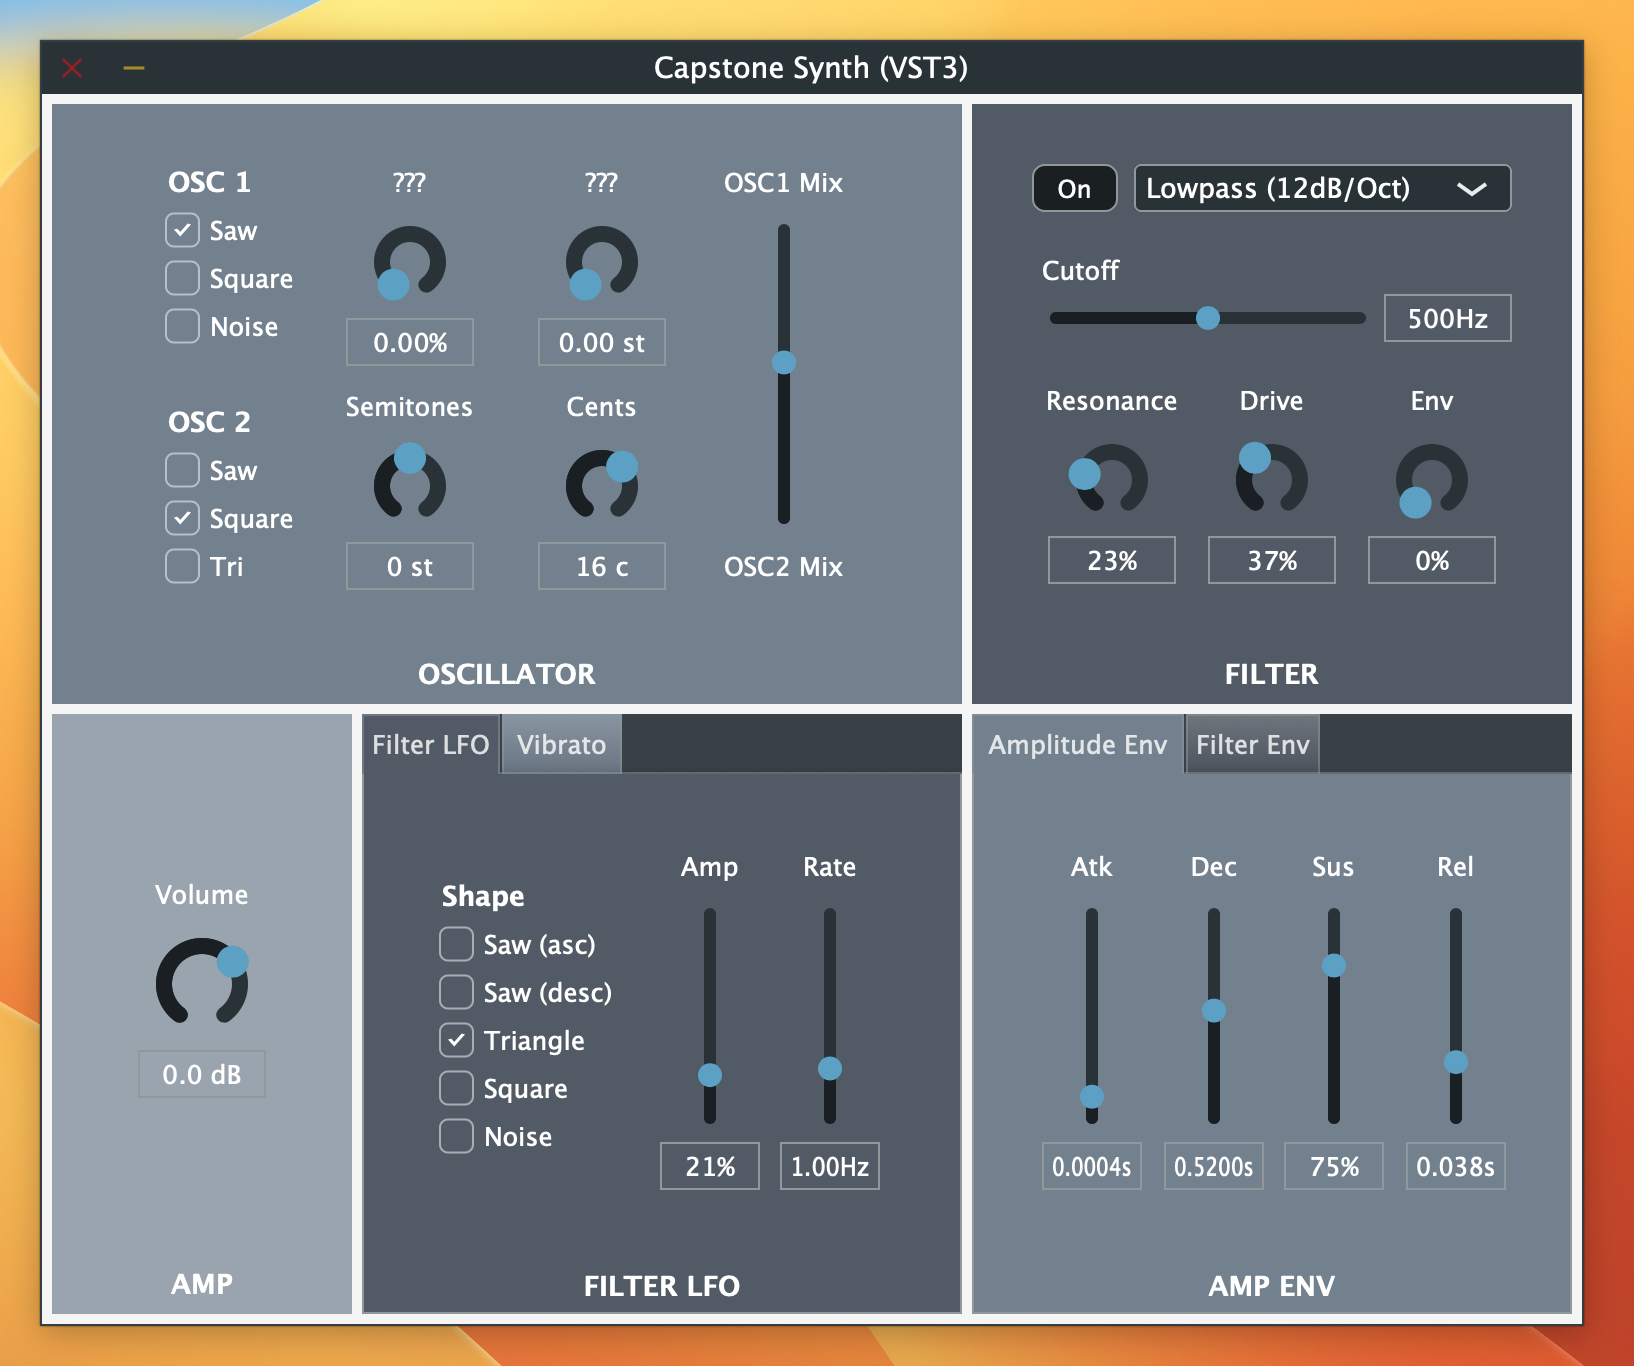
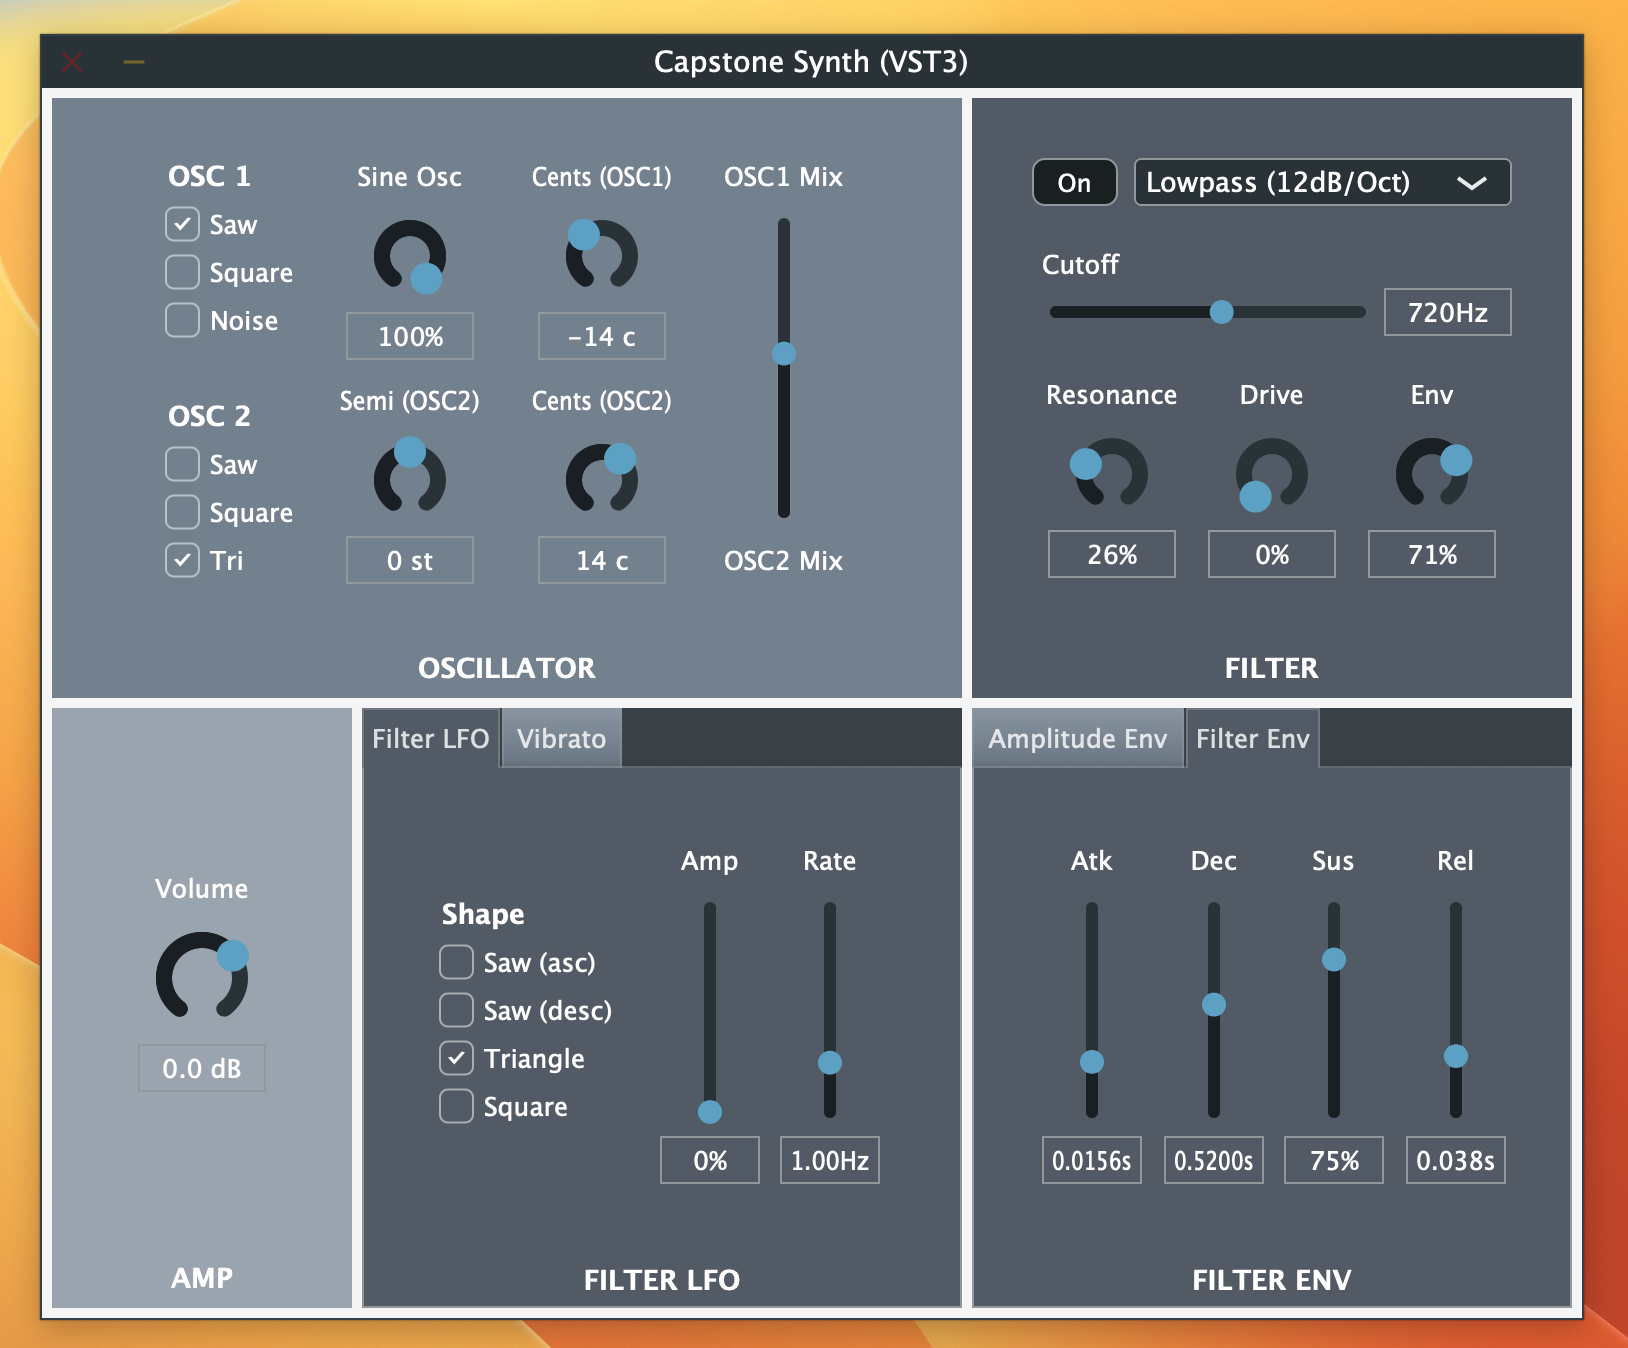
Added sine osc and OSC1 detune

diff --git a/Source/SynthVoice.cpp b/Source/SynthVoice.cpp
@@ -15,11 +15,13 @@ void SynthVoice::prepareToPlay(double sampleRate, int samplesPerBlock, int outpu
     // Required to call `prepare` on each of the juce::dsp processors.
     osc1.prepare(spec);
     osc2.prepare(spec);
+    sineOsc.prepare(spec);
     masterGain.prepare(spec);
     filter.prepare(spec);
     lfo.prepare(spec);
     vibratoLfo.prepare(spec);
     
+    sineOsc.setWaveform(4); // set to sine wave
     adsr.setSampleRate(sampleRate);
     filterAdsr.setSampleRate(sampleRate);
     isPrepared = true;
@@ -29,6 +31,7 @@ void SynthVoice::startNote(int midiNoteNumber, float velocity, juce::Synthesiser
     baseFreqHz = juce::MidiMessage::getMidiNoteInHertz(midiNoteNumber);
     osc1.setLevel(velocity * osc1MixRatio);
     osc2.setLevel(velocity * (1.0 - osc1MixRatio));
+    sineOsc.setLevel(velocity * sineLevel);
     adsr.noteOn();
     filterAdsr.noteOn();
     currentVelocity = velocity;
@@ -59,20 +62,26 @@ void SynthVoice::renderNextBlock(juce::AudioBuffer<float> &outputBuffer, int sta
     // 0. Clear and resize a temp buffer to put our processed signal into
     osc1Buffer.setSize(outputBuffer.getNumChannels(), numSamples, false, false, true);
     osc2Buffer.setSize(outputBuffer.getNumChannels(), numSamples, false, false, true);
+    sineBuffer.setSize(outputBuffer.getNumChannels(), numSamples, false, false, true);
     osc1Buffer.clear();
     osc2Buffer.clear();
+    sineBuffer.clear();
     juce::dsp::AudioBlock<float> osc1AudioBlock {osc1Buffer};
     juce::dsp::AudioBlock<float> osc2AudioBlock {osc2Buffer};
+    juce::dsp::AudioBlock<float> sineAudioBlock {sineBuffer};
     
    // 1. Adjust the oscillators' frequencies with vibrato
     float adjustedBaseFreq = getNewFreqFromVibratoLFO(numSamples);
-    osc1.setFrequency(adjustedBaseFreq, true);
-    osc2.setFrequency(adjustedBaseFreq * pow(2, detuneSemitones / 12.0), true);
+    osc1.setFrequency(adjustedBaseFreq * pow(2, osc1DetuneSemitones / 12.0), true);
+    osc2.setFrequency(adjustedBaseFreq * pow(2, osc2DetuneSemitones / 12.0), true);
+    sineOsc.setFrequency(adjustedBaseFreq, true);
     
     // 1. Get sounds from the oscillators and add them
     osc1.process(juce::dsp::ProcessContextReplacing<float> (osc1AudioBlock));
     osc2.process(juce::dsp::ProcessContextReplacing<float> (osc2AudioBlock));
+    sineOsc.process(juce::dsp::ProcessContextReplacing<float> (sineAudioBlock));
     osc2AudioBlock += osc1AudioBlock;
+    osc2AudioBlock += sineAudioBlock;
     
     // 2. Apply filter (modulated with envelope, filter LFO)
     if (filterIsOn) {
@@ -144,14 +153,17 @@ void SynthVoice::setOscGainRatios(float val) {
     osc2.setLevel(currentVelocity * (1.0 - osc1MixRatio));
 }
 
-void SynthVoice::setOscDetune(int semitones, int cents) {
-    detuneSemitones = semitones + ((float) cents / 100.0);
-//    osc2.setFrequency(baseFreqHz * pow(2, detuneSemitones / 12.0), true);
+void SynthVoice::setOscDetune(int semitones, int cents, int oscNum) {
+    if (oscNum == 1) {
+        osc1DetuneSemitones = ((float) cents / 100.0);
+    } else if (oscNum == 2) {
+        osc2DetuneSemitones = semitones + ((float) cents / 100.0);
+    }
 }
 
 void SynthVoice::setOscSineLevel(float percent) {
-    // TODO: Implement
-    return;
+    sineLevel = percent;
+    sineOsc.setLevel(currentVelocity * percent);
 }
 
 // Filter Module Setters

diff --git a/Source/PluginProcessor.cpp b/Source/PluginProcessor.cpp
@@ -39,10 +39,10 @@ juce::AudioProcessorValueTreeState::ParameterLayout CapstoneSynthAudioProcessor:
     params.push_back(std::make_unique<juce::AudioParameterInt>(ParameterID("OSC1_WAVE", 1), "Oscillator 1 Waveform", 0, 3, 0));
     params.push_back(std::make_unique<juce::AudioParameterInt>(ParameterID("OSC2_WAVE", 1), "Oscillator 2 Waveform", 0, 3, 0));
     params.push_back(std::make_unique<juce::AudioParameterFloat>(ParameterID("OSC1_GAIN_RATIO", 1), "Oscillator 1 Gain Ratio", 0.0, 1.0, 1.0));
-    params.push_back(std::make_unique<juce::AudioParameterFloat>(ParameterID("MYSTERY", 1), "???", 0.0, 1.0, 0.0));
+    params.push_back(std::make_unique<juce::AudioParameterInt>(ParameterID("DETUNE_CENTS_1", 1), "Osc. 1 Detune (Cents)", -50, 50, 0));
     params.push_back(std::make_unique<juce::AudioParameterInt>(ParameterID("DETUNE_CENTS", 1), "Osc. 2 Detune (Cents)", -50, 50, 0));
     params.push_back(std::make_unique<juce::AudioParameterInt>(ParameterID("DETUNE_SEMI", 1), "Osc. 2 Detune (Semitones)", -24, 24, 0));
-    params.push_back(std::make_unique<juce::AudioParameterFloat>(ParameterID("SINE_LVL", 1), "Sine Osc. Level", 0.0, 1.0, 0.0));
+    params.push_back(std::make_unique<juce::AudioParameterInt>(ParameterID("SINE_LVL", 1), "Sine Osc. Level", 0, 100, 0));
     
     // Filter Module Params
     params.push_back(std::make_unique<juce::AudioParameterChoice>(ParameterID("FILT_TYPE", 1), "Filter Type", juce::StringArray {"LPF12", "HPF12", "BPF12", "LPF24", "HPF24", "BPF24"}, 0));
@@ -98,14 +98,16 @@ void CapstoneSynthAudioProcessor::updateParams() {
             auto& osc1Choice = *apvts.getRawParameterValue("OSC1_WAVE");
             auto& osc2Choice = *apvts.getRawParameterValue("OSC2_WAVE");
             auto& osc1GainRatio = *apvts.getRawParameterValue("OSC1_GAIN_RATIO");
+            auto& osc1DetuneCents = *apvts.getRawParameterValue("DETUNE_CENTS_1");
             auto& osc2DetuneCents = *apvts.getRawParameterValue("DETUNE_CENTS");
             auto& osc2DetuneSemi = *apvts.getRawParameterValue("DETUNE_SEMI");
-            auto& sineLevel = *apvts.getRawParameterValue("SINE_LVL");
+            double sineLevel = *apvts.getRawParameterValue("SINE_LVL") / 100.0;
             voice->setOscWaveform(osc1Choice.load(), 1);
             voice->setOscWaveform(osc2Choice.load(), 2);
             voice->setOscGainRatios(osc1GainRatio.load());
-            voice->setOscDetune(osc2DetuneSemi, osc2DetuneCents);
-            voice->setOscSineLevel(sineLevel.load());
+            voice->setOscDetune(0, osc1DetuneCents, 1);
+            voice->setOscDetune(osc2DetuneSemi, osc2DetuneCents, 2);
+            voice->setOscSineLevel(sineLevel);
             
             // Filter Module Params
             auto& filtType = *apvts.getRawParameterValue("FILT_TYPE");

diff --git a/Source/SynthVoice.h b/Source/SynthVoice.h
@@ -32,7 +32,7 @@ class SynthVoice: public juce::SynthesiserVoice {
         // Functions to change synth parameters
         void setOscWaveform(int waveformId, int oscNum);
         void setOscGainRatios(float osc1Amount);
-        void setOscDetune(int semitones, int cents);
+        void setOscDetune(int semitones, int cents, int oscNum);
         void setOscSineLevel(float percent);
         void setFilterType(int filterTypeIdx);
         void setFilterParams(float cutoffHz, float resonance, float driveAmt, float envAmt);
@@ -51,10 +51,10 @@ class SynthVoice: public juce::SynthesiserVoice {
         float getCutoffFromEnvAndLFO(int numSamples);
     
         // Temp buffers to load processed signals into
-        juce::AudioBuffer<float> osc1Buffer, osc2Buffer;
+        juce::AudioBuffer<float> osc1Buffer, osc2Buffer, sineBuffer;
     
         // Things that modify/process the oscillator audio:
-        CustomOscillator<float> osc1, osc2;
+        CustomOscillator<float> osc1, osc2, sineOsc;
         juce::dsp::Gain<float> masterGain;
         juce::dsp::LadderFilter<float> filter;
         juce::ADSR adsr;
@@ -65,12 +65,16 @@ class SynthVoice: public juce::SynthesiserVoice {
         // Helper Variables
         /// The mix between OSC1 and OSC2. 1.0 = 100% OSC1.
         float osc1MixRatio { 0.5 };
+        /// The amount of sine to mix into the signal.
+        float sineLevel;
         /// The velocity from the last time `startNote` was called.
         float currentVelocity;
         /// The frequency from the last time `startNote` was called.
         float baseFreqHz;
         /// The amount of semitones to detune Oscillator 2 by.
-        float detuneSemitones;
+        float osc2DetuneSemitones;
+        /// The amount of semitones to detune Oscillator 1 by.
+        float osc1DetuneSemitones;
         /// Whether the filter is on or off
         bool filterIsOn;
         /// The "center" cutoff frequency from the filter.

diff --git a/Source/OscillatorModule.cpp b/Source/OscillatorModule.cpp
@@ -43,16 +43,16 @@ OscillatorModule::OscillatorModule(juce::AudioProcessorValueTreeState& apvts): a
     
     // Rotary sliders
     configureSlider(sineLevelSlider, "%", 0, "SINE_LVL", sineLevelAttachment);
-    configureLabel(sineLevelSlider, sineLevelSliderLabel, "???");
+    configureLabel(sineLevelSlider, sineLevelSliderLabel, "Sine Osc");
     
-    configureSlider(mysterySlider, " st", 1, "MYSTERY", mysteryAttachment);
-    configureLabel(mysterySlider, mysterySliderLabel, "???");
+    configureSlider(osc1CentsSlider, " c", 1, "DETUNE_CENTS_1", osc1CentsAttachment);
+    configureLabel(osc1CentsSlider, osc1CentsSliderLabel, "Cents (OSC1)");
     
     configureSlider(semitonesSlider, " st", 0, "DETUNE_SEMI", detuneSemiAttachment);
-    configureLabel(semitonesSlider, semitonesSliderLabel, "Semitones");
+    configureLabel(semitonesSlider, semitonesSliderLabel, "Semi (OSC2)");
     
     configureSlider(centsSlider, " c", 0, "DETUNE_CENTS", detuneCentsAttachment);
-    configureLabel(centsSlider, centsSliderLabel, "Cents");
+    configureLabel(centsSlider, centsSliderLabel, "Cents (OSC2)");
     
     // Osc mix slider
     addAndMakeVisible(oscMixSlider);
@@ -123,7 +123,7 @@ void OscillatorModule::resized() {
     fb2.justifyContent = FlexBox::JustifyContent::spaceBetween;
     fb2.alignItems = FlexBox::AlignItems::center;
     fb2.items = {
-        juce::FlexItem(mysterySlider).withWidth(80).withHeight(80).withMargin(margin),
+        juce::FlexItem(osc1CentsSlider).withWidth(80).withHeight(80).withMargin(margin),
         juce::FlexItem(centsSlider).withWidth(80).withHeight(80).withMargin(margin)
     };
     

diff --git a/Source/OscillatorModule.h b/Source/OscillatorModule.h
@@ -31,8 +31,8 @@ class OscillatorModule: public juce::Component, Button::Listener {
         juce::ToggleButton sawButton2 {"Saw"}, squareButton2 {"Square"}, triButton2 {"Tri"};
     
         // Various oscillator parameters
-        juce::Label sineLevelSliderLabel, mysterySliderLabel, semitonesSliderLabel, centsSliderLabel;
-        juce::Slider sineLevelSlider, mysterySlider, semitonesSlider, centsSlider;
+        juce::Label sineLevelSliderLabel, osc1CentsSliderLabel, semitonesSliderLabel, centsSliderLabel;
+        juce::Slider sineLevelSlider, osc1CentsSlider, semitonesSlider, centsSlider;
     
         // Mix of % OSC1 vs. % OSC2
         juce::Label oscMixSliderLabel1, oscMixSliderLabel2;
@@ -43,7 +43,7 @@ class OscillatorModule: public juce::Component, Button::Listener {
     
         // Stuff for attaching sliders to parameters
         juce::AudioProcessorValueTreeState& apvts;
-        std::unique_ptr<SliderAttachment> osc1GainRatioAttachment, detuneCentsAttachment, detuneSemiAttachment, mysteryAttachment, sineLevelAttachment;
+        std::unique_ptr<SliderAttachment> osc1GainRatioAttachment, detuneCentsAttachment, detuneSemiAttachment, osc1CentsAttachment, sineLevelAttachment;
         
         JUCE_DECLARE_NON_COPYABLE_WITH_LEAK_DETECTOR (OscillatorModule)
 };

diff --git a/Source/CustomOsc.h b/Source/CustomOsc.h
@@ -63,6 +63,9 @@ class CustomOscillator {
                 case 3:
                     osc.initialise ([this](Type x) { return 2.0f * random.nextFloat() - 1.0f; }); // white noise
                     break;
+                case 4:
+                    osc.initialise ([](Type x) { return std::sin (x); }, 128); // sine
+                    break;
                 default:
                     jassertfalse;
                     break;
